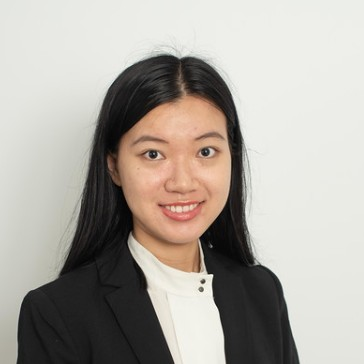
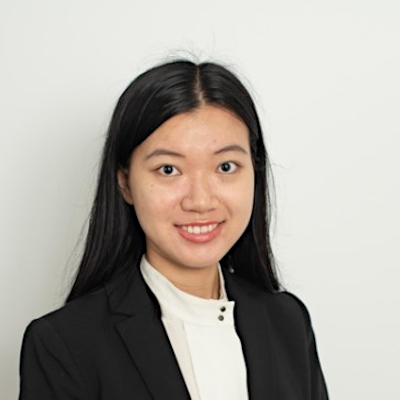
enh: improve photos

diff --git a/src/pages/team.tsx b/src/pages/team.tsx
@@ -58,6 +58,17 @@ export default function Schedule() {
           <TeamMember
             circle="circle"
             size={2}
+            name="Suami Rocha"
+            photo="suami-rocha"
+            place="Belém, Brazil"
+            social={{
+              twitter: "https://twitter.com/suamirochadev",
+              github: "https://github.com/suamirocha",
+            }}
+          />
+          <TeamMember
+            circle="circle"
+            size={2}
             name="Qing (Vincent) Wang"
             photo="qing-wang"
             place="Montreal, Canada"
